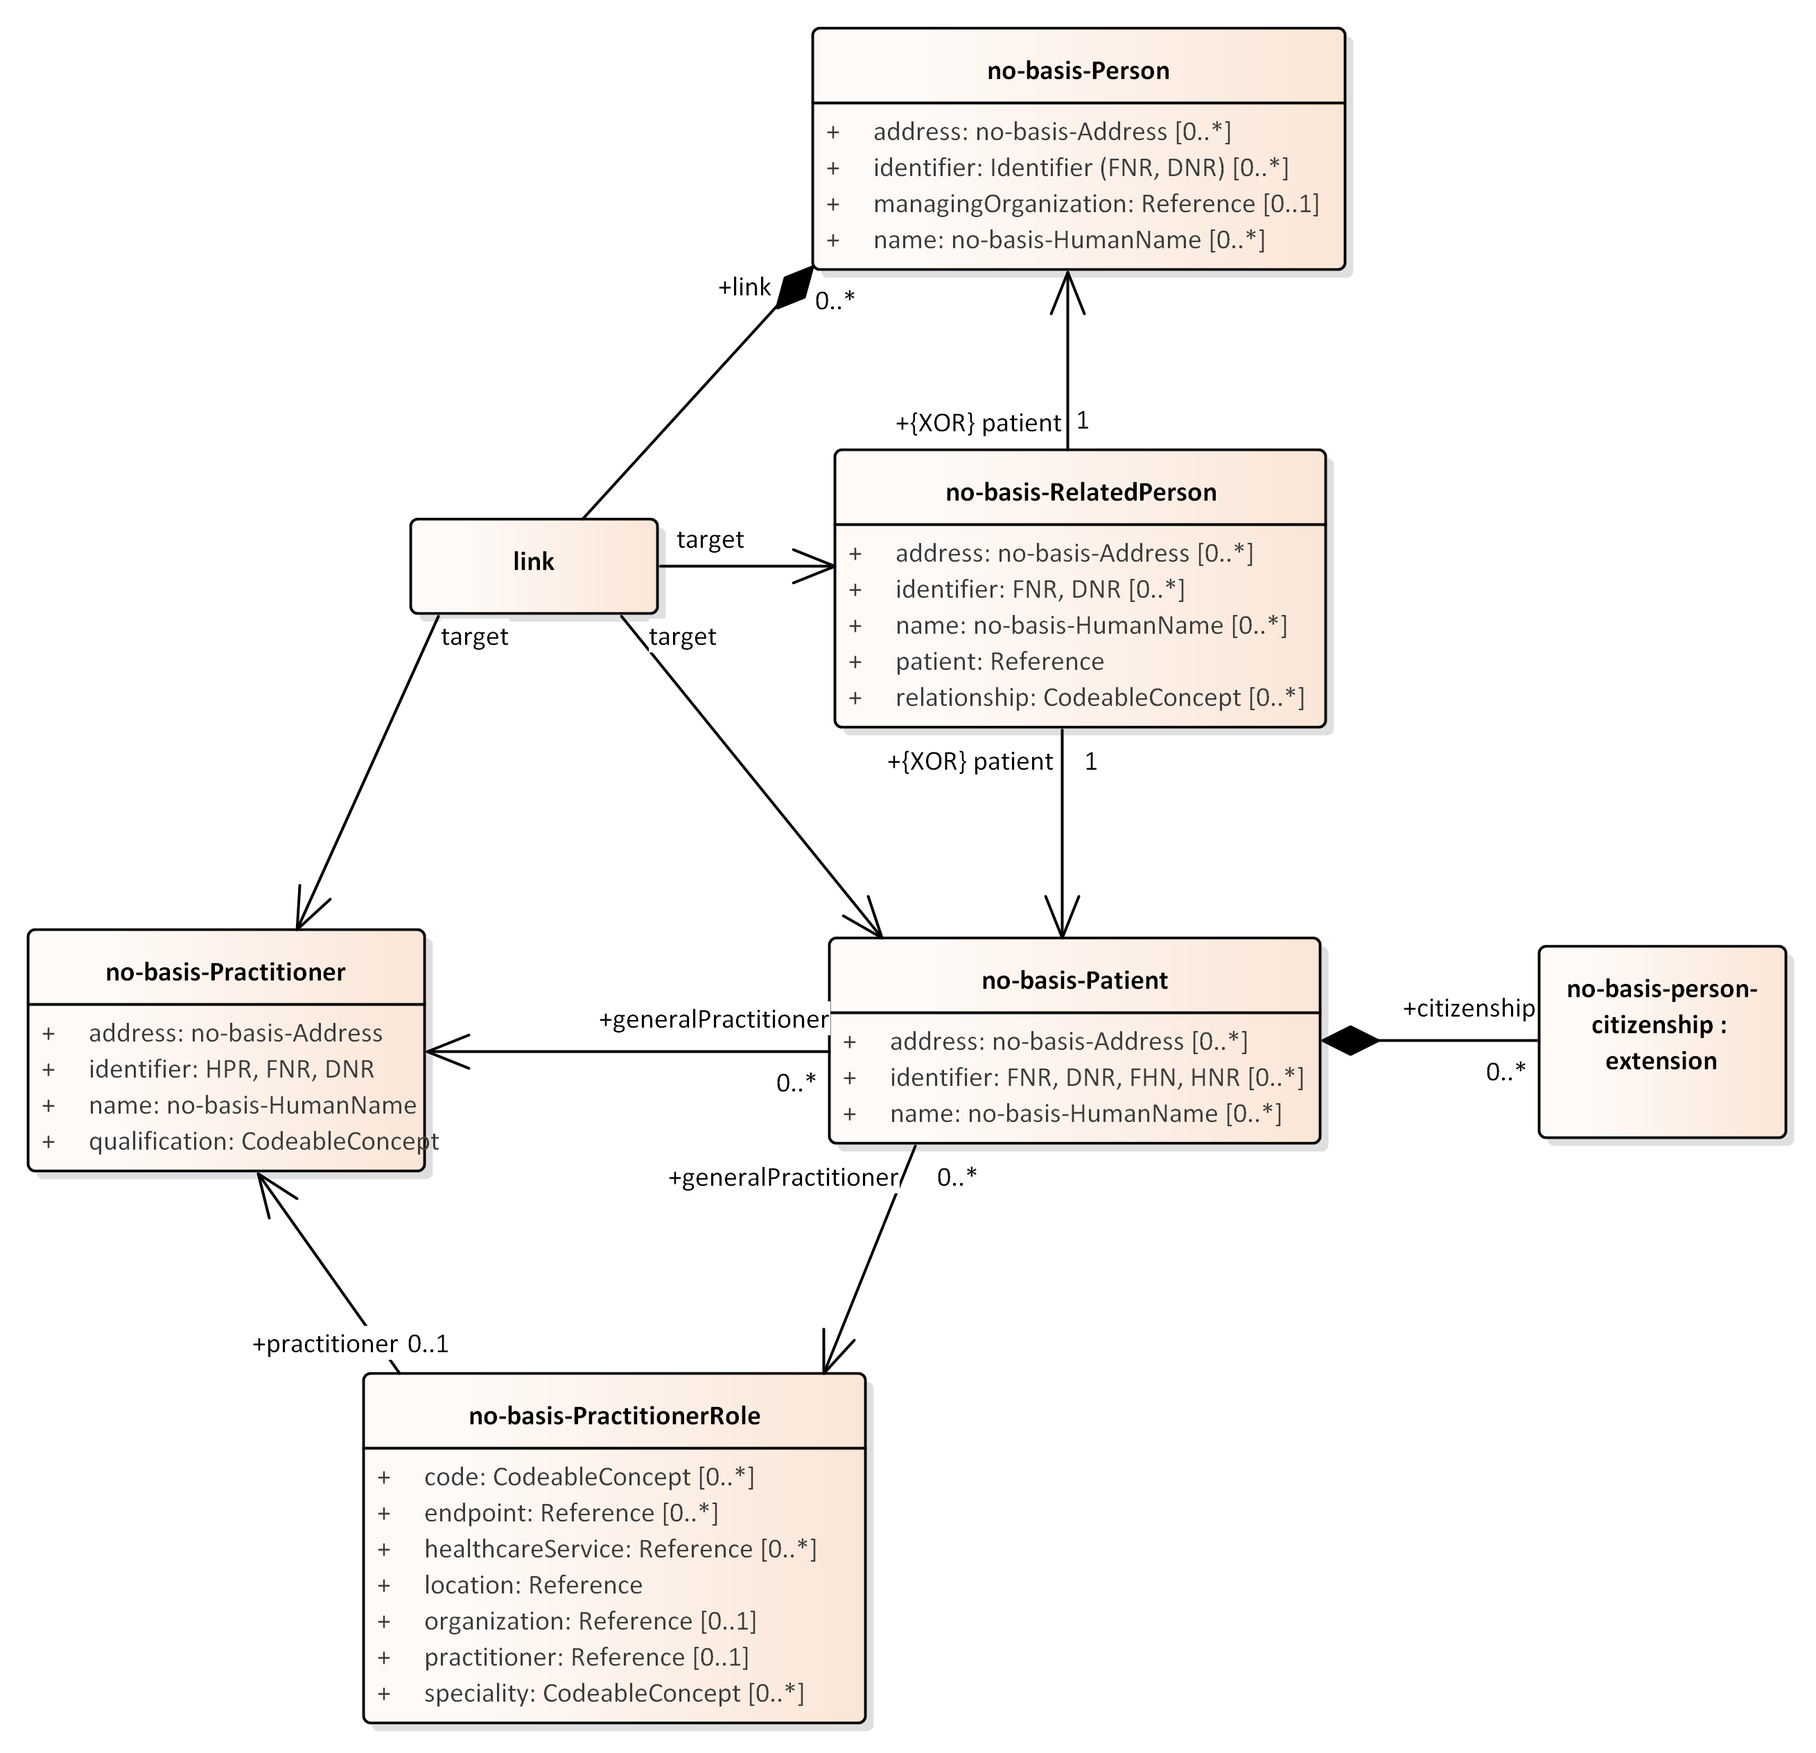
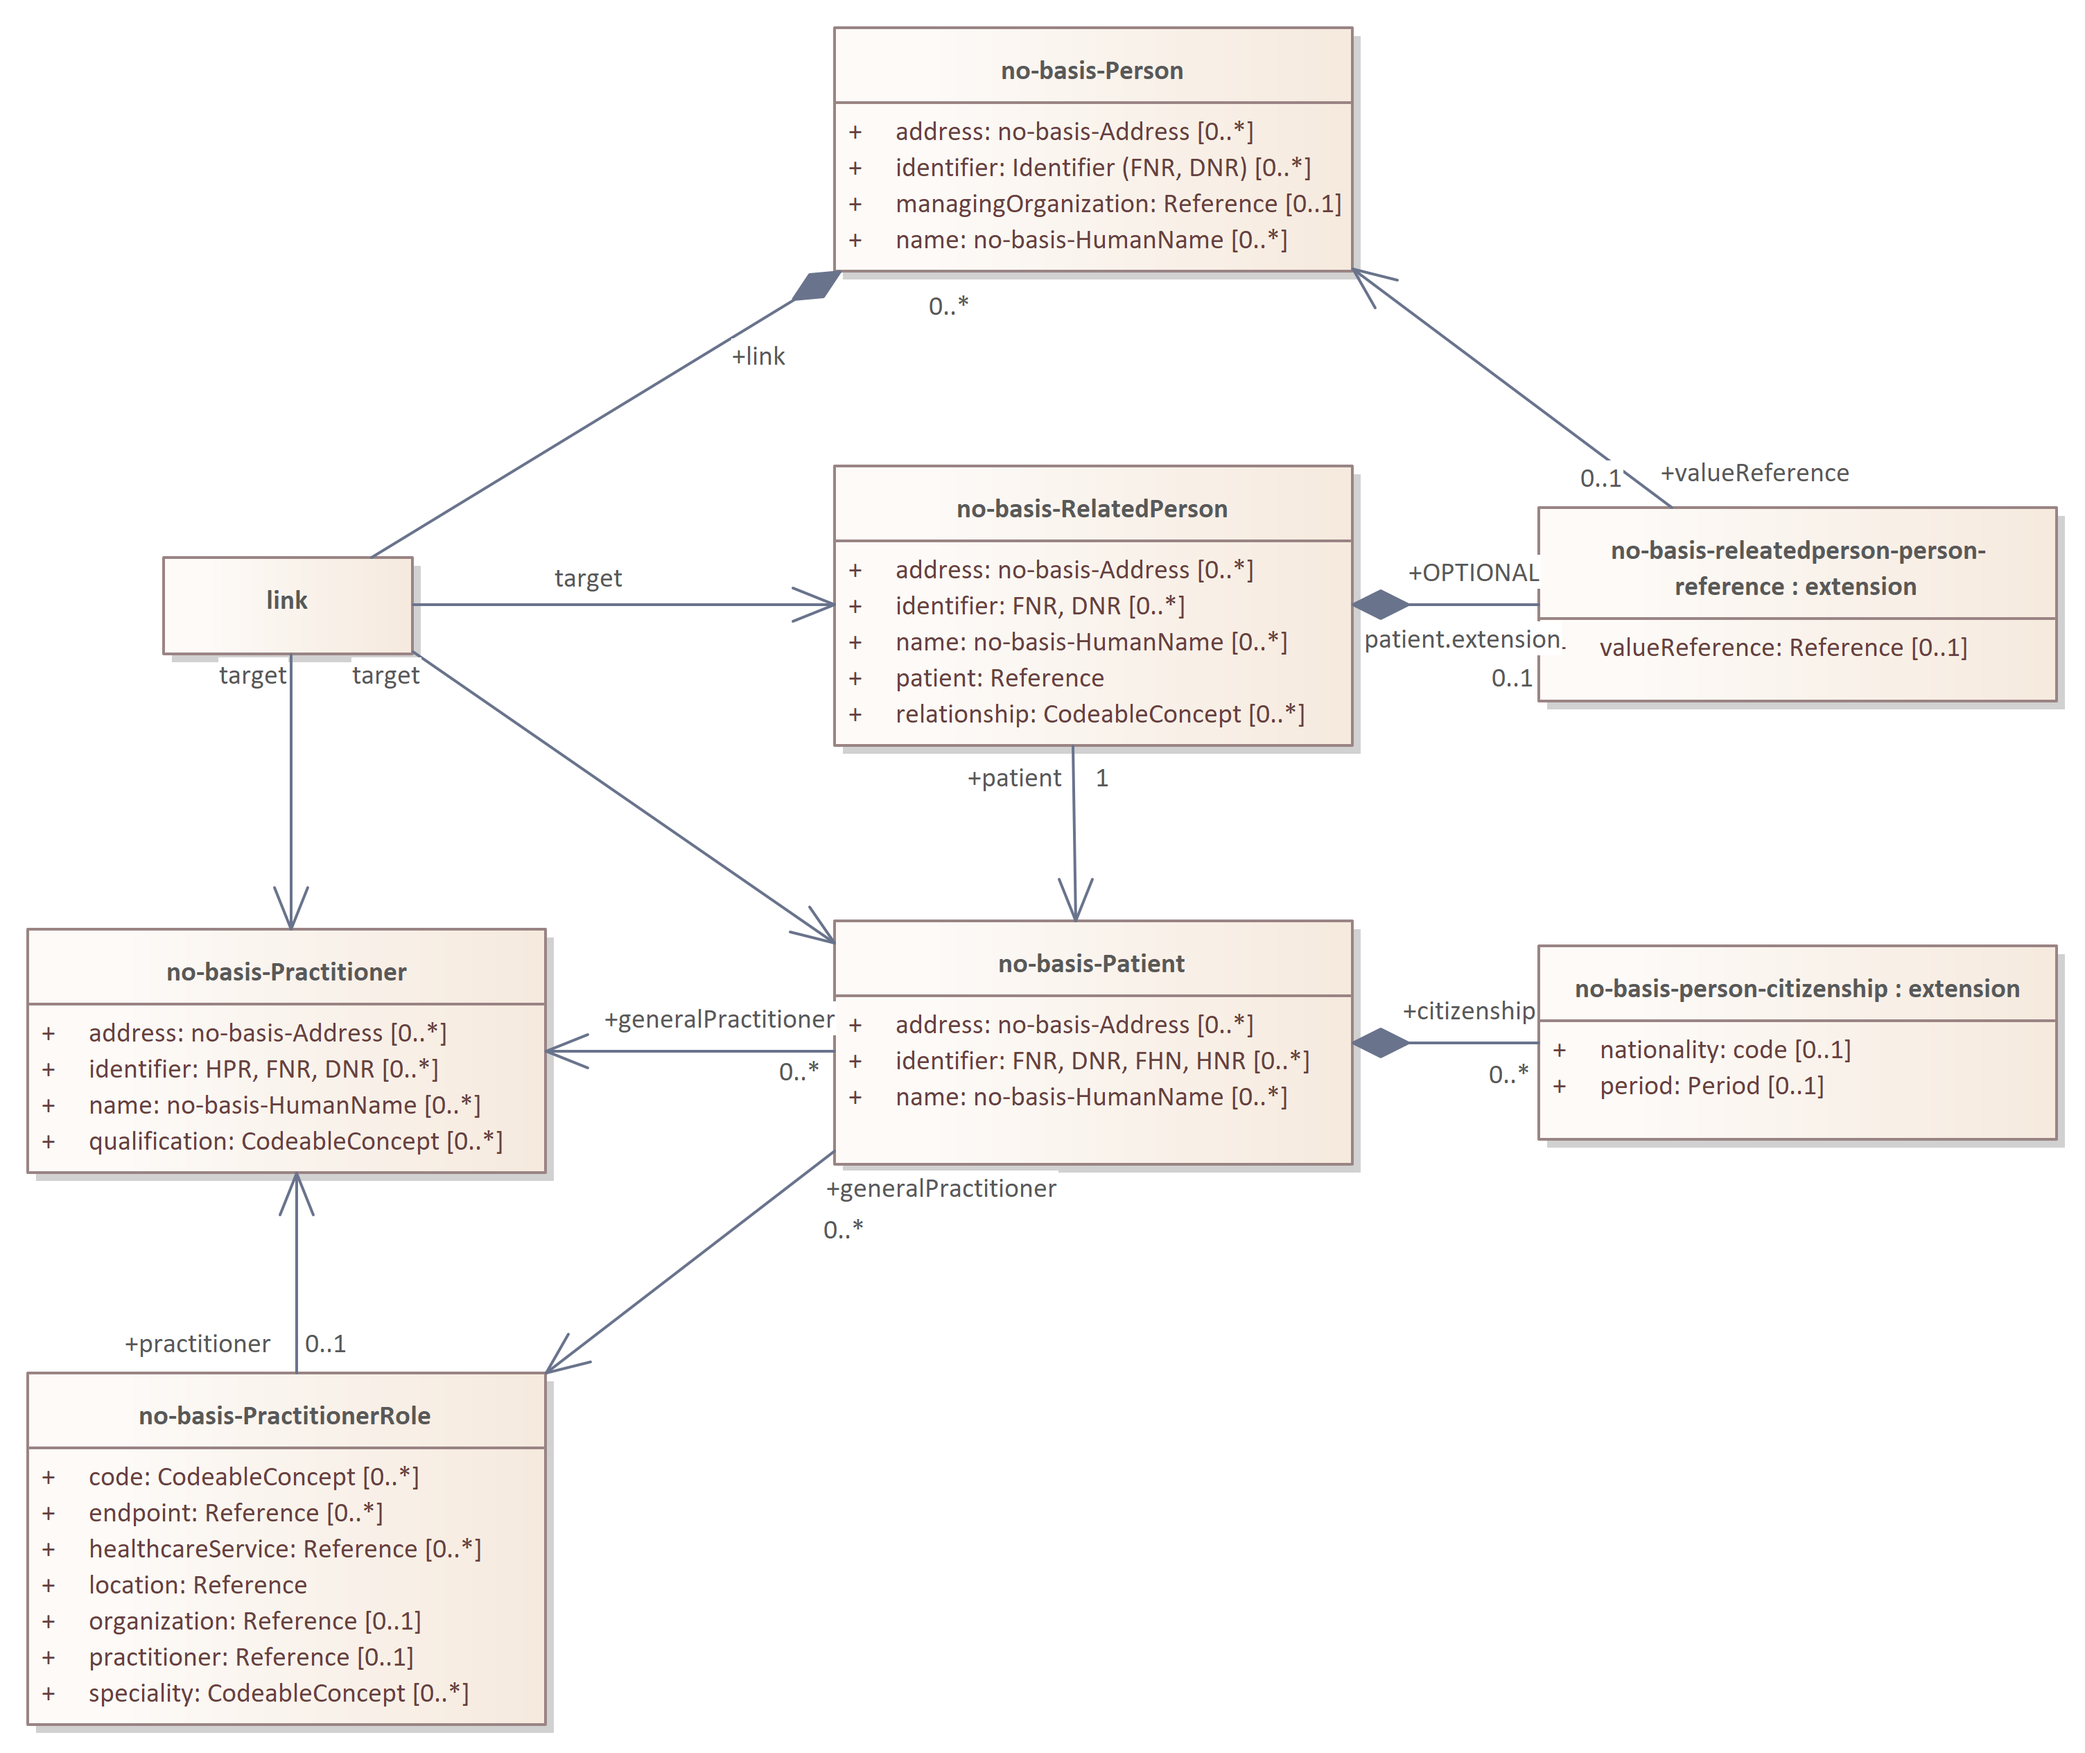
Updated diagrams for IG documentation

diff --git a/Changelog-20x.md b/Changelog-20x.md
@@ -5,6 +5,11 @@
 Fix bugs for validation with official java validator. Remove all snapshots from definitons.
 Fix errors in slicing: [Slicing discussion](https://chat.fhir.org/#narrow/stream/179166-implementers/topic/Slicing.20non-repeating.20elements.20to.20define.20a.20choice)
 
+Date: 2021-07-02
+
+* `no-basis-Datatypes.png` Updated diagram for IG documentation
+* `no-basis-Individuals.png` Updated diagram for IG documentation
+
 Date: 2021-06-17
 
 * NamingSystems Added id value to namingsystem [Issue #76](https://github.com/HL7Norway/basisprofiler-r4/issues/76)
